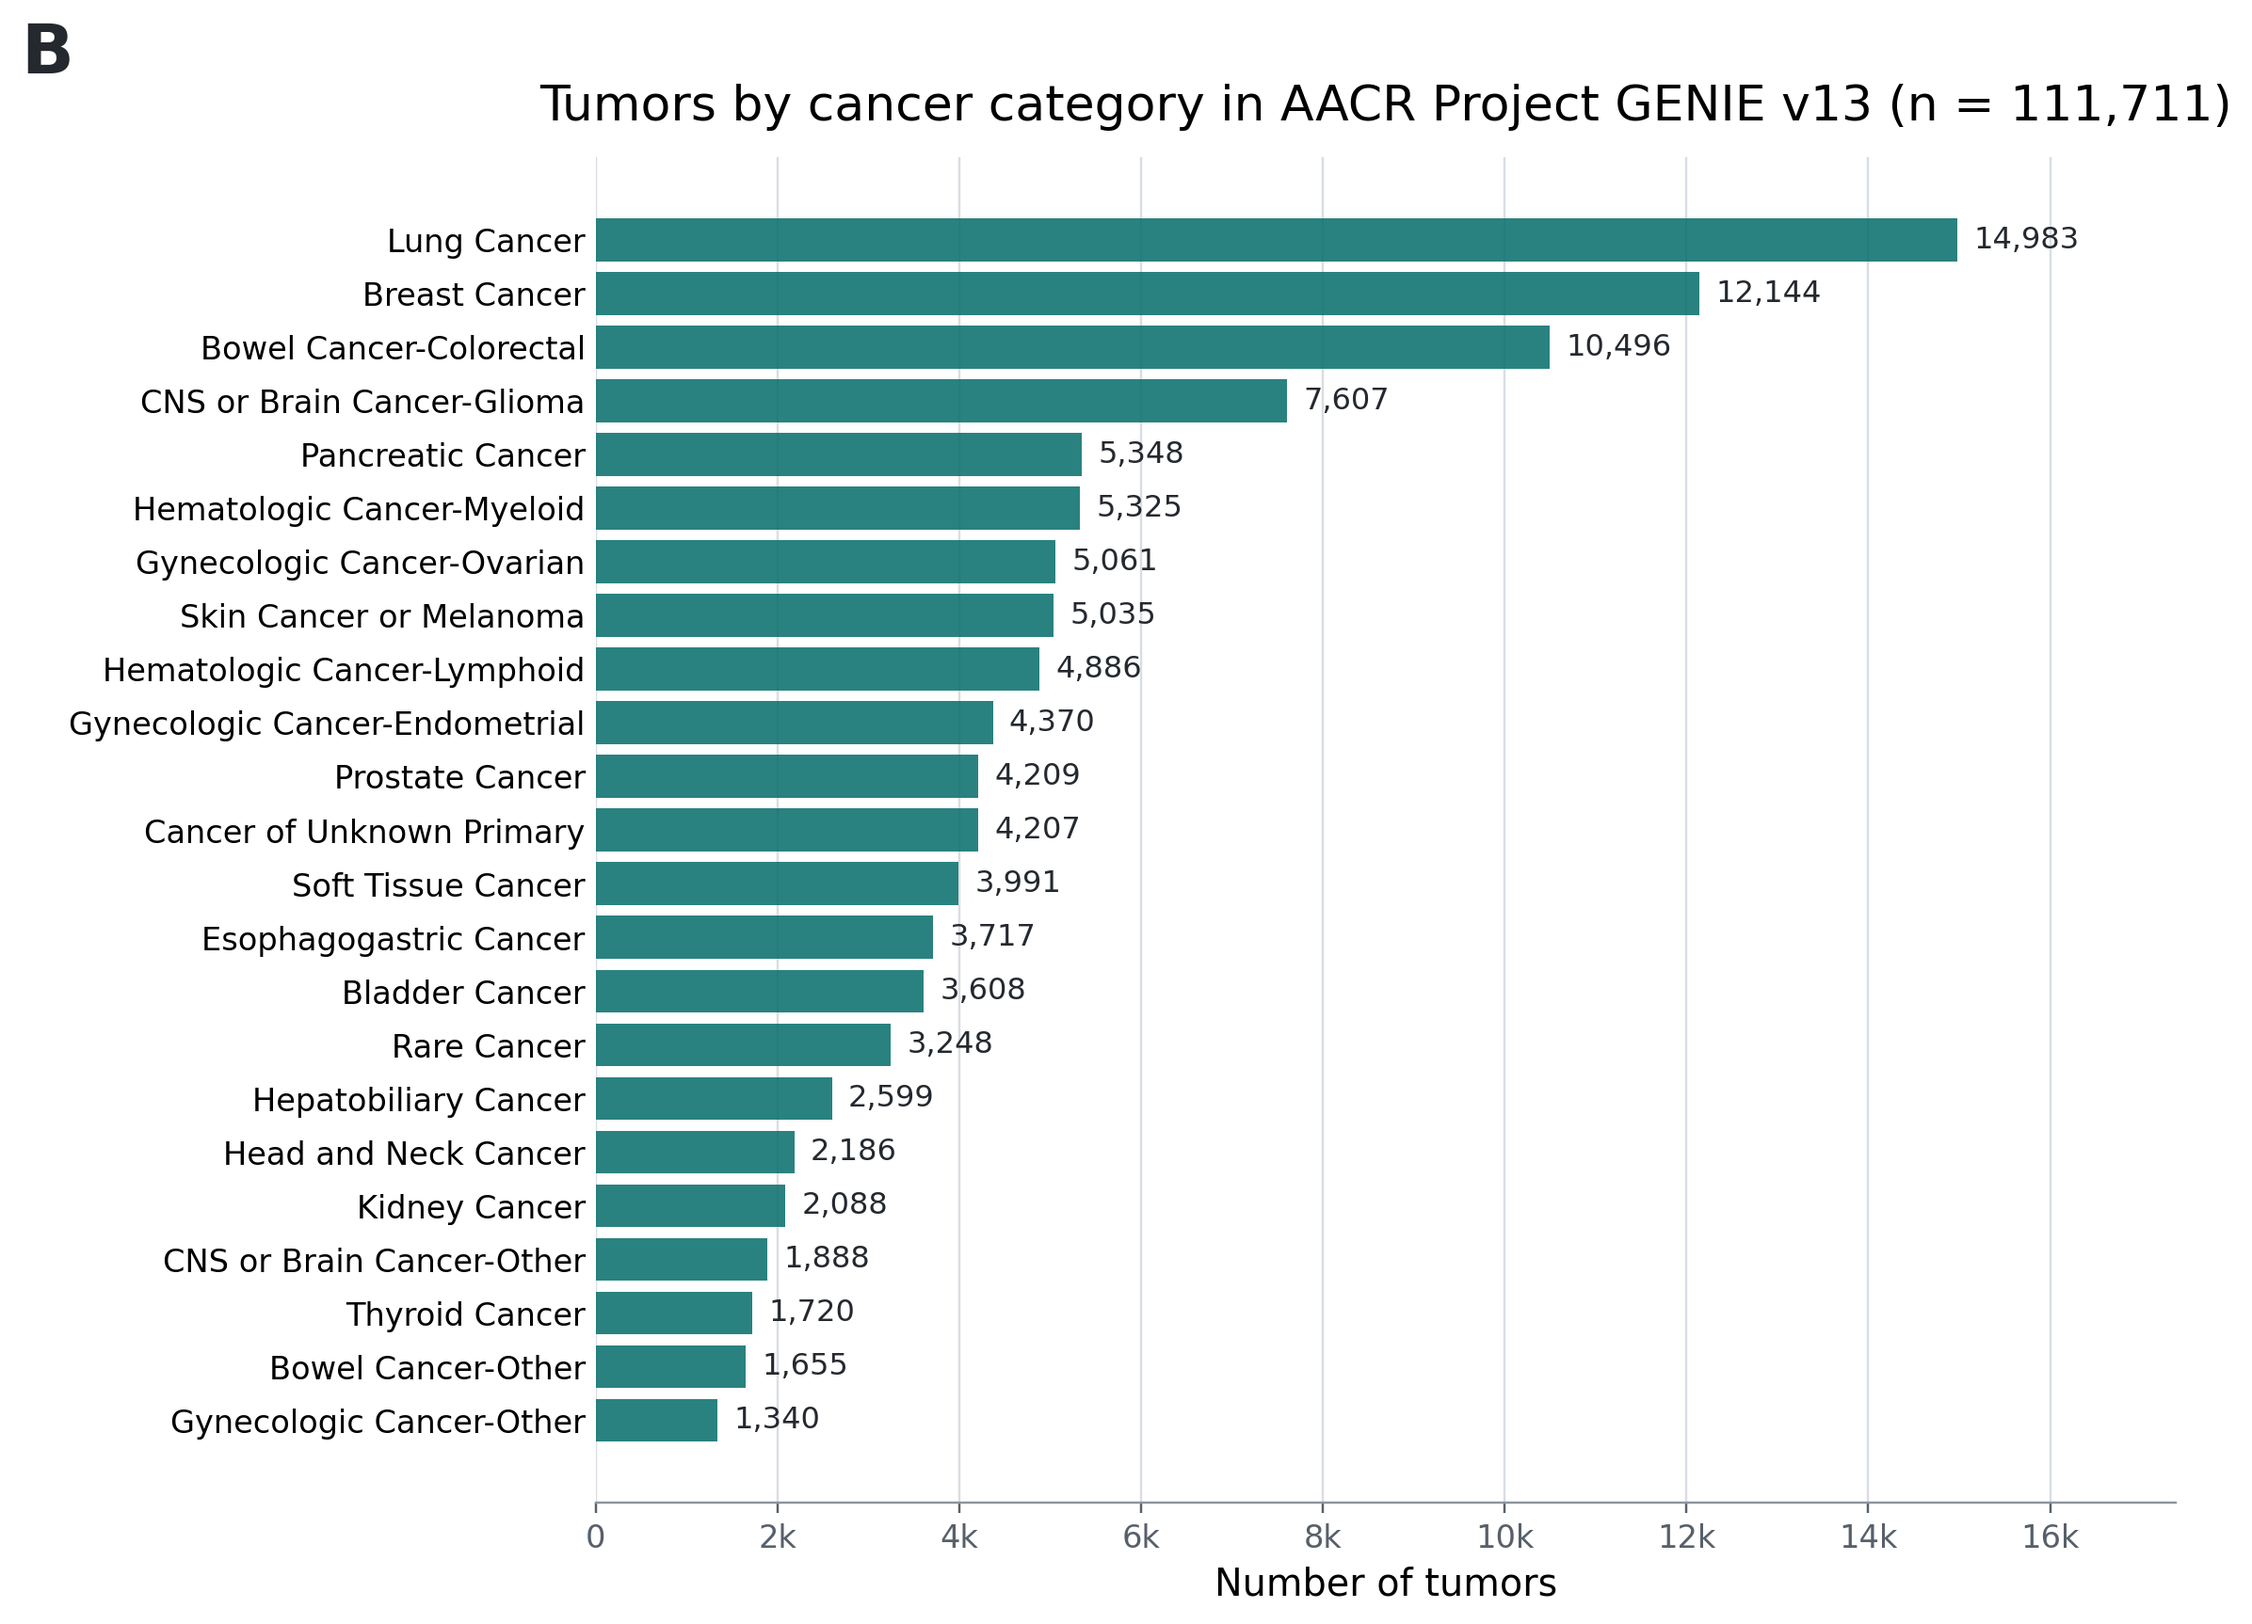
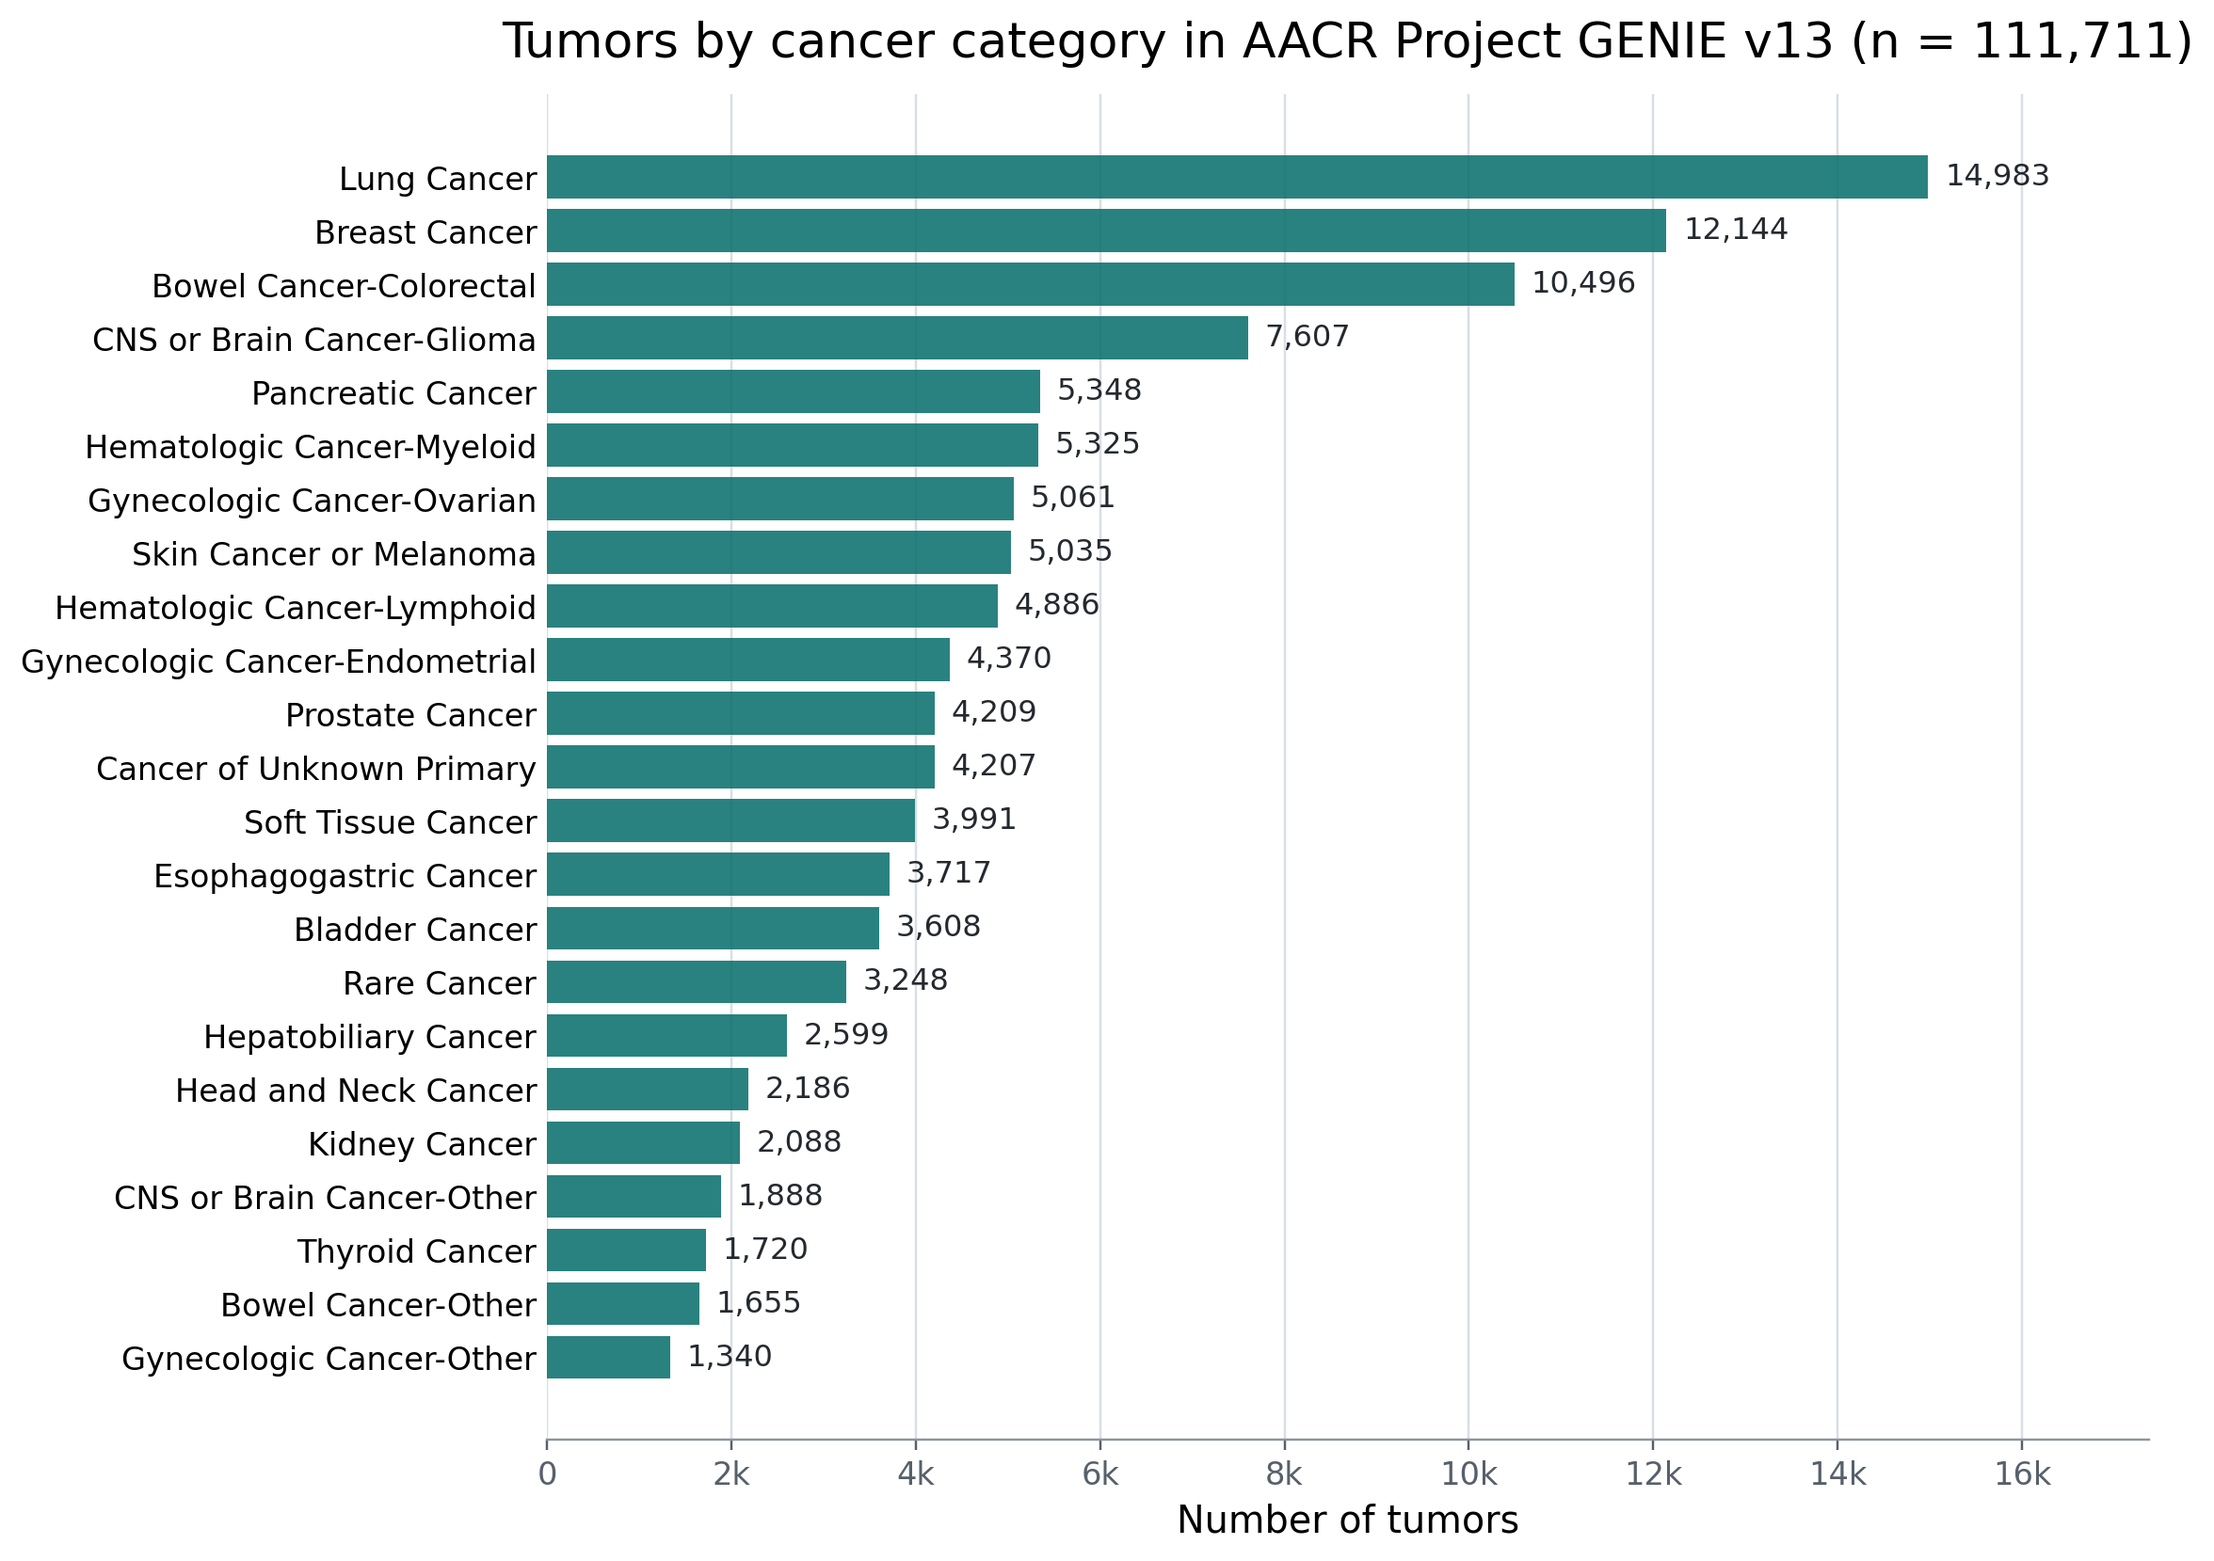
Refine study overview figure spacing

diff --git a/README_compiled.html b/README_compiled.html
@@ -45,13 +45,13 @@ p[align="center"] em { color: #57606a; font-size: 0.94em; }
 <h2 id="study-and-catalogue-overview">Study and Catalogue Overview</h2>
 <p>SATS was developed using AACR Project GENIE version 13.0-public, a real-world targeted-sequencing cohort spanning clinical sequencing programs in North America and Europe.</p>
 <p align="center">
-<img width="780" alt="AACR Project GENIE participating center distribution across North America and Europe" src="docs/assets/genie-site-distribution.png">
+<img width="780" alt="AACR Project GENIE participating center distribution across North America and Europe" src="docs/assets/genie-site-distribution.png"><br>
+<em><strong>Figure 1A.</strong> AACR Project GENIE participating centers and sample counts used for the targeted-sequencing mutational-signature catalogue. Center labels show the participating-center acronym, and numbers in parentheses indicate the number of tumors contributed by that center.</em>
 </p>
-<p align="center"><em><strong>Figure 1A.</strong> AACR Project GENIE participating centers and sample counts used for the targeted-sequencing mutational-signature catalogue. Center labels show the participating-center acronym, and numbers in parentheses indicate the number of tumors contributed by that center.</em></p>
 <p align="center">
-<img width="900" alt="Sample size by cancer category in AACR Project GENIE version 13" src="docs/assets/genie-cancer-type-sample-size.png">
+<img width="900" alt="Sample size by cancer category in AACR Project GENIE version 13" src="docs/assets/genie-cancer-type-sample-size.png"><br>
+<em><strong>Figure 1B.</strong> Distribution of 111,711 tumors across the 23 cancer categories used for downstream targeted-sequencing mutational-signature analysis.</em>
 </p>
-<p align="center"><em><strong>Figure 1B.</strong> Distribution of 111,711 tumors across the 23 cancer categories used for downstream targeted-sequencing mutational-signature analysis.</em></p>
 <p>The resulting SATS catalogue includes <strong>26 single base substitution (SBS) signatures</strong> and <strong>12 double base substitution (DBS) signatures</strong> detected from targeted sequencing data. Dot size indicates the proportion of tumors carrying each signature within a cancer category, and the stacked bars summarize signature-attributed mutation burden.</p>
 <p align="center">
 <img width="900" alt="SATS SBS signature catalogue across cancer categories" src="docs/assets/sats-sbs-catalogue.png">

diff --git a/docs/styles.css b/docs/styles.css
@@ -189,7 +189,7 @@ h1 {
 .overview-map figcaption,
 .sample-size-figure figcaption,
 .catalogue-grid figcaption {
-  margin-top: 8px;
+  margin-top: 4px;
   color: var(--muted);
   font-size: 0.92rem;
 }

diff --git a/README.md b/README.md
@@ -26,16 +26,14 @@ The accompanying manuscript applies SATS to 111,711 tumors from American Associa
 SATS was developed using AACR Project GENIE version 13.0-public, a real-world targeted-sequencing cohort spanning clinical sequencing programs in North America and Europe.
 
 <p align="center">
-  <img width="780" alt="AACR Project GENIE participating center distribution across North America and Europe" src="docs/assets/genie-site-distribution.png">
+  <img width="780" alt="AACR Project GENIE participating center distribution across North America and Europe" src="docs/assets/genie-site-distribution.png"><br>
+  <em><strong>Figure 1A.</strong> AACR Project GENIE participating centers and sample counts used for the targeted-sequencing mutational-signature catalogue. Center labels show the participating-center acronym, and numbers in parentheses indicate the number of tumors contributed by that center.</em>
 </p>
-
-<p align="center"><em><strong>Figure 1A.</strong> AACR Project GENIE participating centers and sample counts used for the targeted-sequencing mutational-signature catalogue. Center labels show the participating-center acronym, and numbers in parentheses indicate the number of tumors contributed by that center.</em></p>
 
 <p align="center">
-  <img width="900" alt="Sample size by cancer category in AACR Project GENIE version 13" src="docs/assets/genie-cancer-type-sample-size.png">
+  <img width="900" alt="Sample size by cancer category in AACR Project GENIE version 13" src="docs/assets/genie-cancer-type-sample-size.png"><br>
+  <em><strong>Figure 1B.</strong> Distribution of 111,711 tumors across the 23 cancer categories used for downstream targeted-sequencing mutational-signature analysis.</em>
 </p>
-
-<p align="center"><em><strong>Figure 1B.</strong> Distribution of 111,711 tumors across the 23 cancer categories used for downstream targeted-sequencing mutational-signature analysis.</em></p>
 
 The resulting SATS catalogue includes **26 single base substitution (SBS) signatures** and **12 double base substitution (DBS) signatures** detected from targeted sequencing data. Dot size indicates the proportion of tumors carrying each signature within a cancer category, and the stacked bars summarize signature-attributed mutation burden.
 
